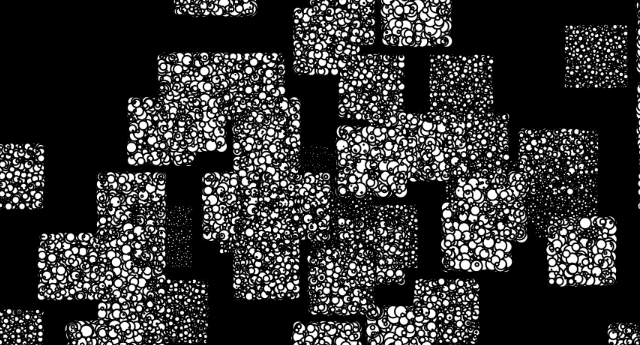
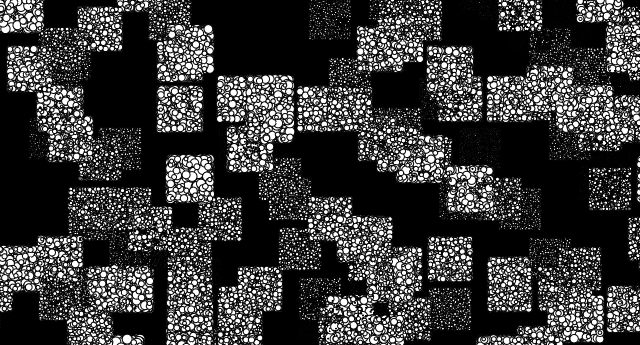
Redid 2 thumbnails and fixed some colors.

diff --git a/index.html b/index.html
@@ -96,21 +96,6 @@
         <div class="container-fluid">
             <div class="row no-gutter">
                 <div class="col-lg-4 col-sm-6">
-                    <a href="work/dna.html" class="portfolio-box">
-                        <img src="img/DNA4.png" class="img-responsive" alt="">
-                        <div class="portfolio-box-caption">
-                            <div class="portfolio-box-caption-content">
-                                <div class="project-category text-faded">
-                                    Animations
-                                </div>
-                                <div class="project-name">
-                                    DNA Doodle
-                                </div>
-                            </div>
-                        </div>
-                    </a>
-                </div>
-                <div class="col-lg-4 col-sm-6">
                     <a href="work/UrbanBustle.html" class="portfolio-box">
                         <img src="img/UrbanBustle.png" class="img-responsive" alt="">
                         <div class="portfolio-box-caption">
@@ -120,6 +105,21 @@
                                 </div>
                                 <div class="project-name">
                                     Urban Bustle
+                                </div>
+                            </div>
+                        </div>
+                    </a>
+                </div>
+                <div class="col-lg-4 col-sm-6">
+                    <a href="work/dna.html" class="portfolio-box">
+                        <img src="img/DNA4.png" class="img-responsive" alt="">
+                        <div class="portfolio-box-caption">
+                            <div class="portfolio-box-caption-content">
+                                <div class="project-category text-faded">
+                                    Animations
+                                </div>
+                                <div class="project-name">
+                                    DNA Doodle
                                 </div>
                             </div>
                         </div>

diff --git a/css/creative.css b/css/creative.css
@@ -485,3 +485,20 @@ body {
 .portfolio-box .portfolio-box-caption {
     background-color: rgba(0, 0, 0, 0.498039);
 }    
+#contact {
+    background-color: #4E4D4A;
+    color: #fff;
+}
+#contact p, #contact a, #contact hr {
+    font-size: 18px;
+    color: #FFFFFF;
+    border-color: #FFFFFF;
+}
+@media (min-width: 768px){
+    .navbar-default .nav > li>a, .navbar-default .nav>li>a:focus {
+        color: rgba(0,0,0,.7);
+    }  
+    .navbar-default .nav > li>a, .navbar-default .nav>li>a:hover {
+    color: rgba(240,95,64,.7);
+}  
+}
